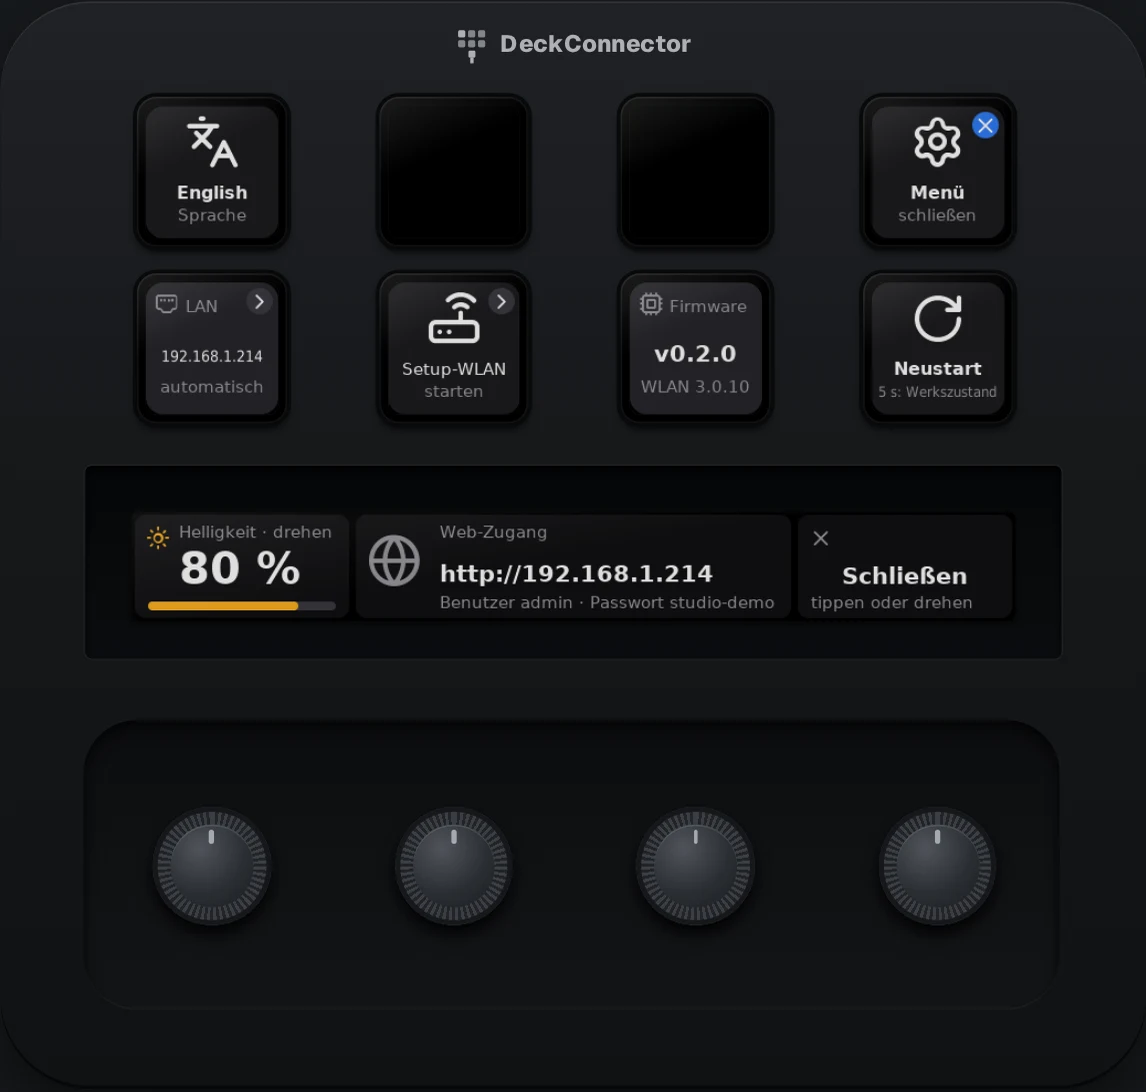
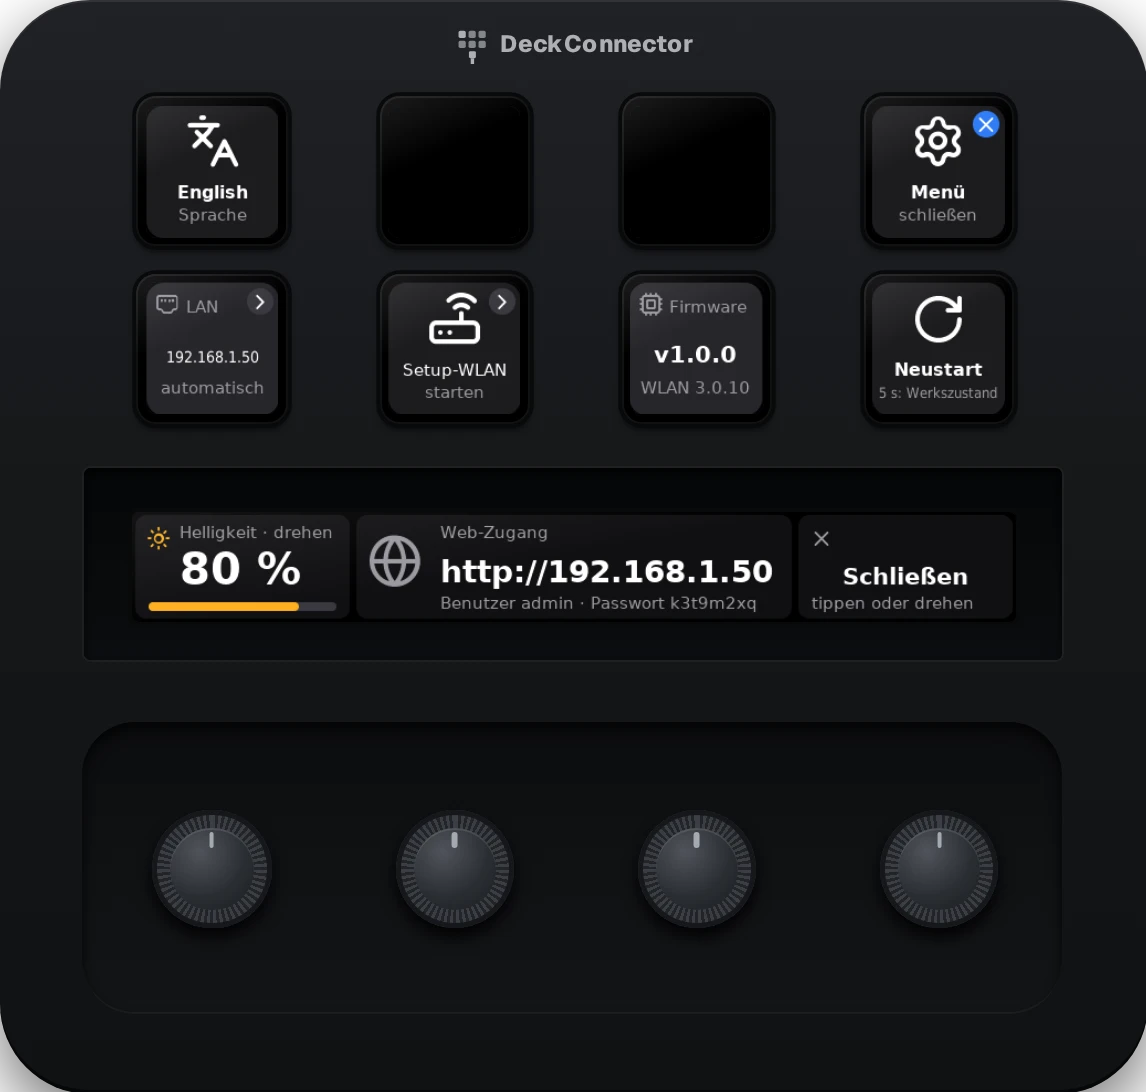
Deck shots: the tool builds against the current HID io again, and the docs pictures show the example address instead of the bench board's

diff --git a/site/components/docs/diagrams.tsx b/site/components/docs/diagrams.tsx
@@ -269,7 +269,7 @@ export function HostSwitch({ lang }: { lang?: Lang }) {
 export function DeckMenu({ lang }: { lang?: Lang }) {
   const t = pick(lang, {
     title: 'The deck menu on a Stream Deck +',
-    alt: 'The deck menu in the web UI\'s live deck view. Top row: English Sprache, two empty keys, Menü schließen. Second row: LAN 192.168.1.214 automatisch, Setup-WLAN starten, Firmware with its version, Neustart 5 s: Werkszustand. Touch strip: Helligkeit 80 %, Web-Zugang http://192.168.1.214 with user admin and the password, Schließen.',
+    alt: 'The deck menu in the web UI\'s live deck view. Top row: English Sprache, two empty keys, Menü schließen. Second row: LAN 192.168.1.50 automatisch, Setup-WLAN starten, Firmware with its version, Neustart 5 s: Werkszustand. Touch strip: Helligkeit 80 %, Web-Zugang http://192.168.1.50 with user admin and the password, Schließen.',
     rows: [
       ['English', 'Switches the deck to English. In English it says Deutsch'],
       ['LAN', 'Fixed or automatic address'],
@@ -279,7 +279,7 @@ export function DeckMenu({ lang }: { lang?: Lang }) {
     ],
   }, {
     title: 'Das Deck-Menü auf einem Stream Deck +',
-    alt: 'Das Deck-Menü in der Live-Ansicht der Weboberfläche. Obere Reihe: English Sprache, zwei leere Tasten, Menü schließen. Zweite Reihe: LAN 192.168.1.214 automatisch, Setup-WLAN starten, Firmware mit ihrer Version, Neustart 5 s: Werkszustand. Touchleiste: Helligkeit 80 %, Web-Zugang http://192.168.1.214 mit Benutzer admin und Passwort, Schließen.',
+    alt: 'Das Deck-Menü in der Live-Ansicht der Weboberfläche. Obere Reihe: English Sprache, zwei leere Tasten, Menü schließen. Zweite Reihe: LAN 192.168.1.50 automatisch, Setup-WLAN starten, Firmware mit ihrer Version, Neustart 5 s: Werkszustand. Touchleiste: Helligkeit 80 %, Web-Zugang http://192.168.1.50 mit Benutzer admin und Passwort, Schließen.',
     rows: [
       ['English', 'Stellt das Deck auf Englisch. Auf Englisch steht dort Deutsch'],
       ['LAN', 'Feste oder automatische Adresse'],

diff --git a/site/scripts/deck-shots.c b/site/scripts/deck-shots.c
@@ -6,27 +6,31 @@
 #include "db_driver.h"
 #include "ui.h"
 
-static db_err_t no_write(const uint8_t *r, size_t len)
+static db_err_t no_write(const db_hid_io_t *io, const uint8_t *r, size_t len)
 {
+    (void)io;
     (void)r;
     (void)len;
     return DB_OK;
 }
 
-static db_err_t no_flush(void)
+static db_err_t no_flush(const db_hid_io_t *io)
 {
+    (void)io;
     return DB_OK;
 }
 
-static db_err_t feature(uint8_t *buf, size_t len, size_t *out_len)
+static db_err_t feature(const db_hid_io_t *io, uint8_t *buf, size_t len, size_t *out_len)
 {
+    (void)io;
     memset(buf + 1, 0, len - 1);
     *out_len = len;
     return DB_OK;
 }
 
-static db_err_t set_feature(const uint8_t *buf, size_t len)
+static db_err_t set_feature(const db_hid_io_t *io, const uint8_t *buf, size_t len)
 {
+    (void)io;
     (void)buf;
     (void)len;
     return DB_OK;
@@ -91,7 +95,7 @@ int main(int argc, char **argv)
     strcpy(md.wifi_ssid, "studio");
     strcpy(md.web_pass, "k3t9m2xq");
     strcpy(md.fw, "v1.0.0");
-    strcpy(md.wlan_fw, "2.0.4");
+    strcpy(md.wlan_fw, "3.0.10");
     ui_screen_t sc;
 
     ui_menu_t m = {.page = PAGE_MAIN, .confirm_key = -1};
